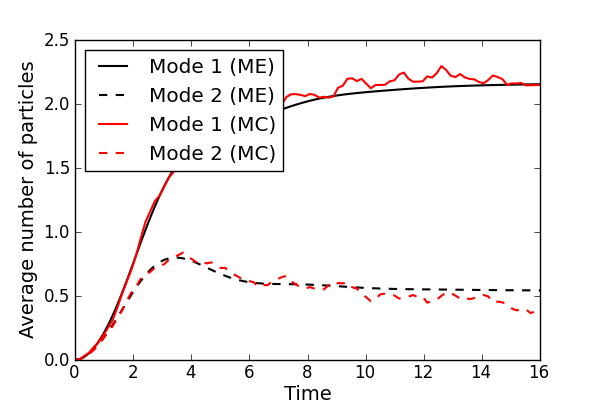
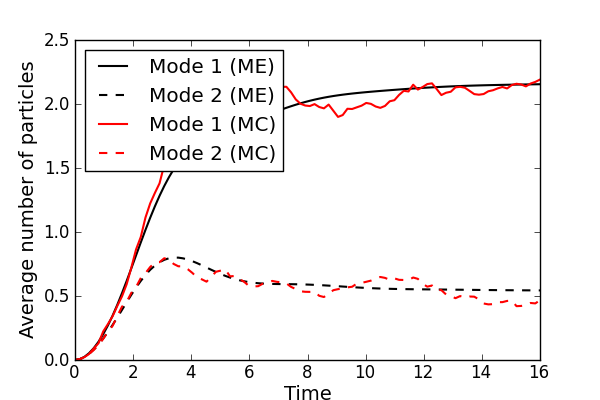
updated dynamics guide for updated odeoptions

diff --git a/doc/examples/examples-parampmonte.py b/doc/examples/examples-parampmonte.py
@@ -40,7 +40,7 @@ avg=odesolve(H,psi0,taulist,[C1,C2],[num1,num2])
 
 #plot expectation value for photon number in each mode
 fig=figure(figsize=[6,4])
-plot(taulist,avg[0],'k',taulist,avg[1],'k--',taulist,avgmc[0],'r',taulist,avgmc[1],'r--',lw=1.5)
+plot(taulist,avg[0],'k',taulist,avg[1],'k--',taulist,avgmc.expect[0],'r',taulist,avgmc.expect[1],'r--',lw=1.5)
 xlabel("Time",fontsize=14)
 ylabel("Average number of particles",fontsize=14)
 legend(('Mode 1 (ME)','Mode 2 (ME)','Mode 1 (MC)','Mode 2 (MC)'),loc=2 )

diff --git a/doc/guide/guide-bloch.rst b/doc/guide/guide-bloch.rst
@@ -20,12 +20,16 @@ In QuTiP, creating a Bloch sphere is accomplished by calling:
 
 >>> b=Bloch()
 
-which will load an instance of the Bloch class.  Before getting into the details of this object, we can simply plot the blank Bloch sphere associated with this instance via:
+which will load an instance of the :class:`qutip.Bloch` class.  Before getting into the details of this object, we can simply plot the blank Bloch sphere associated with this instance via:
 
 >>> b.show()
 
 .. figure:: guide-bloch-empty.png
    :align: center
+   :width: 2.5in
+   
+   Empty Bloch sphere generated by calling ``Bloch()`` command.
+
 
 In addition to the show() command, the Bloch class has the following functions:
 
@@ -69,6 +73,9 @@ As an example, we can add a single data point:
 
 .. figure:: guide-bloch-1pnt.png
    :align: center
+   :width: 2.5in
+   
+   Bloch sphere with single bloch vector represented as a data point.
 
 and then a single vector:
 
@@ -79,6 +86,9 @@ and then a single vector:
 
 .. figure:: guide-bloch-pnt+vec.png
    :align: center
+   :width: 2.5in
+   
+   Bloch sphere with a single data point and one vector.
 
 
 and then add another vector corresponding to the :math:`\left|\rm up \right>` state:
@@ -90,7 +100,9 @@ and then add another vector corresponding to the :math:`\left|\rm up \right>` st
 
 .. figure:: guide-bloch-pnt+vec+state.png
    :align: center
+   :width: 2.5in
    
+   Bloch sphere demonstrating multiple vectors and points on a single sphere.
 
 Notice that when we add more than a single vector (or data point), a different color will automatically be applied to the later data set (mod 4).  In total, the code for constructing our Bloch sphere with one vector, one state, and a single data point is:
 
@@ -112,7 +124,9 @@ where we have commented out the extra `show()` commands.  We can also plot multi
 
 .. figure:: guide-bloch-empty.png
    :align: center
+   :width: 2.5in
    
+   The data in a Bloch sphere object is removed by the ``clear()`` method.  Note that other properties, such as the sphere color and axes labels are not affected by this command.
 
 Now on the same Bloch sphere, we can plot the three states associated with the x, y, and z directions:
 
@@ -124,7 +138,9 @@ Now on the same Bloch sphere, we can plot the three states associated with the x
 
 .. figure:: guide-bloch-xyz-states.png
    :align: center
+   :width: 2.5in
    
+   Three unit-length vectors on the Bloch sphere.
 
 a similar method works for adding vectors:
 
@@ -143,7 +159,9 @@ Adding multiple points to the Bloch sphere works slightly differently than addin
 
 .. figure:: guide-bloch-equ-pnts.png
    :align: center
+   :width: 2.5in
    
+   A set of equatorial data points plotted simultaneously.
 
 Notice that, in contrast to states or vectors, each point remains the same color as the initial point.  This is because adding multiple data points using the add_points function is interpreted, by default, to correspond to a single data point (single qubit state) plotted at different times.  This is very useful when visualizing the dynamics of a qubit.  An example of this is given in the example :ref:`examples_bloch_qubit_decay`.  If we want to plot additional qubit states we can call additional `add_points` functions:
 
@@ -155,7 +173,9 @@ Notice that, in contrast to states or vectors, each point remains the same color
 
 .. figure:: guide-bloch-2pnts.png
    :align: center
+   :width: 2.5in
    
+   Two sets of data points plotted on the Bloch sphere.  The color and shape of the data points is varied automatically by the Bloch class.
 
 Notice how the color and point markers change for each set of data.
 
@@ -185,6 +205,7 @@ What if we want to vary the color of our points.  We can tell the :class:`qutip.
 
 .. figure:: guide-bloch-multi-pnts.png
    :align: center
+   :width: 2.5in
    
 
 Now, the data points cycle through a variety of predefined colors.  Now lets add another set of points, but this time we want the set to be a single color, representing say a qubit going from the :math:`\left|\rm up\right>` state to the :math:`\left|\rm down\right>` state in the y-z plane:
@@ -198,6 +219,7 @@ Now, the data points cycle through a variety of predefined colors.  Now lets add
 
 .. figure:: guide-bloch-pnts+pnts.png
    :align: center
+   :width: 2.5in
    
 
 A more slick way of using this 'multi' color feature is also given in the :ref:`examples_bloch_qubit_decay` example, where we set the color of the markers as a function of time.

diff --git a/doc/introduction.rst b/doc/introduction.rst
@@ -23,7 +23,7 @@ The Quantum Toolbox in Python, or QuTiP, is a fully open-source implementation o
 
 * QuTiP allows for solving the dynamics of Hamiltonians with arbitrary time-dependence (does not yet include time-dependent collapse operators).
 
-* Takes advantage of the multiple processing cores found in essentially all modern computers [1]_.
+* Takes advantage of the multiple processing cores found in essentially all modern computers [*]_.
 
 * QuTiP was designed from the start to require a minimal learning curve for those users who have experience using the popular quantum optics toolbox by Sze M. Tan. 
 
@@ -37,7 +37,7 @@ QuTiP is designed to be a general toolbox for solving quantum optics like proble
 .. figure:: figures/qutip_org.png
    :align: center
    
-   QuTiP tree-diagram.
+   QuTiP tree-diagram of user accessible functions and classes.
 
 
 
@@ -45,6 +45,6 @@ Whats New in QuTiP Version 2.0
 ================================
 
 The second version of QuTiP has seen many improvements in the performance of the original code base, as well as the addition of several new routines supporting a wide range of functionality.  Some of the highlights of this release include:
-|
 
-.. [1] Due to differences in multiprocessing routines, QuTiP does not currently support multiprocessing under the Windows operating system.  If you require this functionality, then please consider running QuTiP in a Unix based environment such as Linux or the Mac OSX.
+
+.. [*] Due to differences in multiprocessing routines, QuTiP does not currently support multiprocessing under the Windows operating system.  If you require this functionality, then please consider running QuTiP in a Unix based environment such as Linux or the Mac OSX.

diff --git a/doc/guide/guide-tensor.rst b/doc/guide/guide-tensor.rst
@@ -3,13 +3,13 @@
 
 .. _guide-tensor:
 
-Creating and Decomposing Composite Systems Using Tensor Products and Partial Traces
-***********************************************************************************
+Using Tensor Products and Partial Traces
+******************************************
 
 Tensor products
 ===============
 
-To describe the states of coupled quantum systems, such as two coupled qubits, a qubit coupled to an oscillator, etc., we need to expand the Hilbert space by taking the tensor product of the state vectors of the component systems. Similarly, the operators acting on the state vectors in the combined Hilbert space (describing the coupled system) are formed by taking the tensor product of the component operators.
+To describe the states of multipartite quantum systems, such as two coupled qubits, a qubit coupled to an oscillator, etc., we need to expand the Hilbert space by taking the tensor product of the state vectors of the component systems. Similarly, the operators acting on the state vectors in the combined Hilbert space (describing the coupled system) are formed by taking the tensor product of the component operators.
 
 In QuTiP the function the function :func:`qutip.tensor.tensor` is used for this. The *tensor* function takes as argument a list of state vectors *or* operators and returns the corresponding quantity for the combined Hilbert space.
 

diff --git a/doc/examples/examples.rst b/doc/examples/examples.rst
@@ -3,11 +3,8 @@
 
 .. _examples:
 
-QuTiP Examples
-**************
-
 Running QuTiP demos
-===================
+-----------------------
 
 QuTip includes 20 built in demos from the examples below that demonstrate the usage of the built in functions for solving a variety of problems.  To run the demos, load the QuTiP package::
 
@@ -25,7 +22,7 @@ This will generate the examples GUI, or a command line list of demos, depending 
 If you do not have any graphics libraries installed, or they are disabled, then the demos function *must* be run from the terminal.
 
 Basic examples
-==============
+-------------------------
 
 .. toctree::
    :maxdepth: 2
@@ -41,7 +38,7 @@ Basic examples
    examples-GHZ.rst      
 
 Master equation
-===============
+--------------------------------
 
 .. toctree::
    :maxdepth: 2
@@ -59,7 +56,7 @@ Master equation
 
 
 Monte-Carlo
-===========
+--------------------------------
 
 .. toctree::
    :maxdepth: 2
@@ -72,7 +69,7 @@ Monte-Carlo
 
 
 Steady state calculations
-=========================
+--------------------------------
 
 .. toctree::
    :maxdepth: 2
@@ -82,7 +79,7 @@ Steady state calculations
    examples-spectrumsteady.rst
 
 QuTiP Manuscript Figure Scripts
-===============================
+--------------------------------
 
 .. toctree::
    :maxdepth: 2

diff --git a/doc/guide/guide-dynamics.rst b/doc/guide/guide-dynamics.rst
@@ -126,9 +126,7 @@ includes the original system Hamiltonian :math:`H_{\rm sys}`, the Hamiltonian fo
 .. math::
 	:label: master_equation
 
-	\!\!\dot \rho(t) \!\!\!\!&=&\!\!\! -\frac{i}{\hbar}[H(t), \rho(t)]  \nonumber\\
-	&+&\!\!\!\!\!
-	\sum_n \frac{1}{2} \left[2 C_n \rho(t) C_n^{+} - \rho(t) C_n^{+} C_n - C_n^{+} C_n \rho(t)\right]\!,\,\,
+	\dot\rho(t)=-\frac{i}{\hbar}[H(t),\rho(t)]+\sum_n \frac{1}{2} \left[2 C_n \rho(t) C_n^{+} - \rho(t) C_n^{+} C_n - C_n^{+} C_n \rho(t)\right]
 
 where the :math:`C_n = \sqrt{\gamma_n} A_n` are collapse operators, and :math:`A_n` are the operators through which the environment couples to the system in :math:`H_{\rm int}`, and :math:`\gamma_n` are the corresponding rates.  The derivation of Eq.~(:eq:`master_equation`) may be found in several sources, and will not be reproduced here.  Instead, we emphasize the approximations that are required to arrive at the master equation in the form of Eq.~(:eq:`master_equation`), and hence perform a calculation in QuTiP:
 

diff --git a/doc/examples/examples-parampmonte.rst b/doc/examples/examples-parampmonte.rst
@@ -2,15 +2,13 @@
    Copyright (C) 2011-2012, Paul D. Nation & Robert J. Johansson
 
 Master equation vs. Monte-Carlo evolution for a unequally damped parametric amplifier
----------------------------------------------------------------------
-
-Master equation vs. Monte-Carlo evolution for a unequally damped parametric amplifier.
+-----------------------------------------------------------------------------------------
     
 .. include:: examples-parampmonte.py
     :literal:    
 
 `Download example <http://qutip.googlecode.com/svn/doc/examples/examples-parampmonte.py>`_
 
-.. figure:: http://qutip.googlecode.com/svn/wiki/images/damped-paramp.png
+.. figure:: examples-parampmonte.png
     :align: center
-    :target: http://qutip.googlecode.com/svn/wiki/images/damped-paramp.png
+    :width: 4in

diff --git a/doc/guide/guide-correlation.rst b/doc/guide/guide-correlation.rst
@@ -63,7 +63,8 @@ The following code demonstrates how to calculate the :math:`\left<x(0)x(t)\right
 
 .. figure:: guide-correlation-1.png
     :align: center
-    
+    :width: 4in
+	
 Non-steadystate correlation function
 ====================================
     
@@ -86,12 +87,14 @@ More generally, we can also calculate correlation functions of the kind :math:`\
 
 .. figure:: guide-correlation-2.png
    :align:  center
+   :width: 4in
    
    :math:`\alpha = 2.5`
 
 
 .. figure:: guide-correlation-3.png
    :align:  center
+   :width: 4in
    
    :math:`\alpha = 0`
 

diff --git a/doc/examples/examples-lasing.rst b/doc/examples/examples-lasing.rst
@@ -13,15 +13,18 @@ This example illustrates a simple model for single-atom lasing in a Jaynes-Cummi
       
 .. figure:: examples-lasing_1.png
     :align: center
+    :width: 4in
     
     Cavity and atom occupation probabilities.
     
 .. figure:: examples-lasing_2.png
     :align: center
-
+    :width: 4in
+	
     Cavity photon distribution (final state).
     
 .. figure:: examples-lasing_3.png
     :align: center
-
+    :width: 4in
+	
     Cavity Winger function (final state).

diff --git a/doc/examples/examples-schcatdist.rst b/doc/examples/examples-schcatdist.rst
@@ -14,11 +14,13 @@ Calculates the Wigner for a Schrodinger Cat-state composed of two coherent state
       
 .. figure:: examples-schcatdist-w.png
     :align: center
+    :width: 4in
     
     The Wigner function of the Schrödinger cat state.
     
 .. figure:: examples-schcatdist-q.png 
     :align: center
+    :width: 4in
 
     The Q-function of the Schrödinger cat state.
 

diff --git a/doc/examples/examples-bloch-qubit-decay.rst b/doc/examples/examples-bloch-qubit-decay.rst
@@ -18,7 +18,7 @@ Basic example
       
 .. figure:: examples-bloch-qubit-decay.png
     :align: center
-
+    :width: 4in
 
 Slightly More Advanced
 ----------------------
@@ -39,5 +39,5 @@ Suppose we want to vary the color of our points as a function of time.  Here we 
         
 .. figure:: examples-bloch-qubit-decay-color.png 
     :align: center
-
+    :width: 4in
 

diff --git a/doc/index.rst b/doc/index.rst
@@ -7,6 +7,7 @@ Frontmatter
 ************
 
 .. toctree::
+   :titlesonly:
    :maxdepth: 2
    
    frontmatter.rst
@@ -23,7 +24,7 @@ Introduction
    introduction.rst
    installation.rst
 
-Guide
+QuTiP Users Guide
 ******************
 
 .. toctree::
@@ -37,7 +38,7 @@ Examples
 
 
 .. toctree::
-   :maxdepth: 1
+   :maxdepth: 2
    
    examples/examples.rst
 
